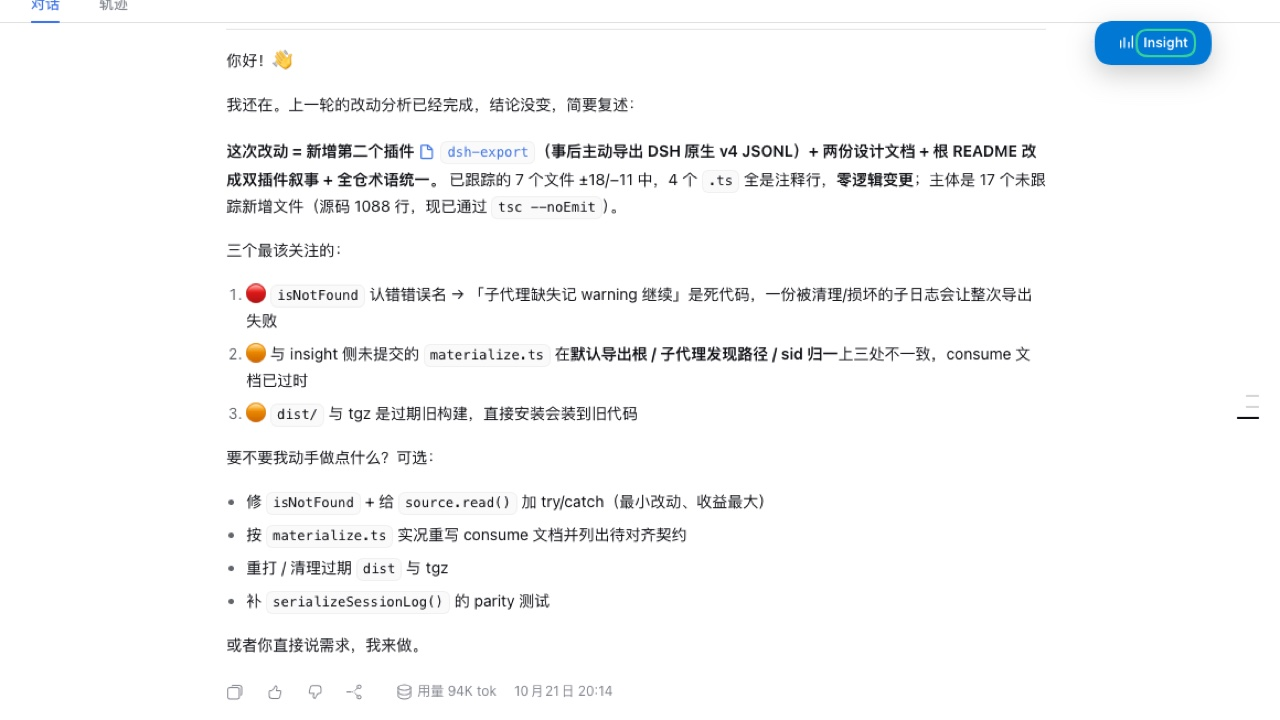
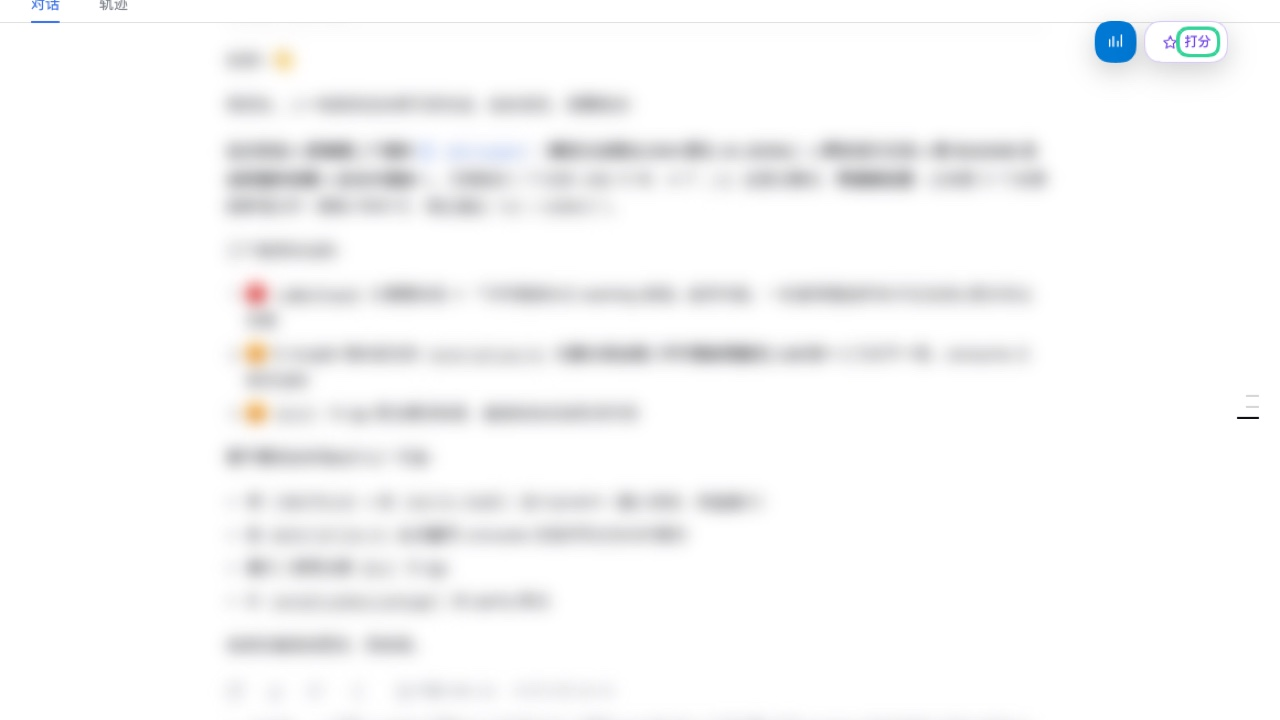
docs: simplify Insight page and add score screenshots

diff --git a/public/plugins/insight/index.html b/public/plugins/insight/index.html
@@ -10,11 +10,11 @@
 </head>
 <body>
   <header class="topbar">
-    <a class="brand" href="#top"><span class="brand-mark">IN</span><span>Insight</span></a>
+    <a class="brand" href="#top"><img class="brand-icon" src="assets/icon.svg" alt=""><span>Insight</span></a>
     <nav aria-label="文档导航">
       <a href="#install">安装</a>
-      <a href="#usage">使用</a>
       <a href="#health">环境检查</a>
+      <a href="#usage">使用</a>
       <a href="#limits">限制</a>
     </nav>
     <a class="npm-link" href="https://www.npmjs.com/package/@fuxi-ailabs/dsh-insight-bundle">npm ↗</a>
@@ -23,8 +23,7 @@
   <main id="top" class="layout">
     <article class="doc">
       <header class="hero">
-        <p class="eyebrow">DSH PLUGIN · v1.0.0</p>
-        <h1>Insight</h1>
+        <div class="hero-title"><img src="assets/icon.svg" alt="" width="58" height="58"><div><p class="eyebrow">DSH PLUGIN · v1.0.0</p><h1>Insight</h1></div></div>
         <p class="lede">把当前 DSH 会话导入 Insight，在 DSH 内读回评分卡，并从插件配置页检查 Provider Auth、Insight CLI 和服务状态。</p>
         <dl class="meta">
           <div><dt>DSH</dt><dd><code>0.2.1-rc.2</code></dd></div>
@@ -39,12 +38,17 @@
           <li><code>/insight</code>：导出当前会话（含子会话）、导入 Insight，并打开会话页。</li>
           <li><code>/score</code>：读取、重算或语义评审评分卡，并核对导入覆盖度。</li>
           <li><strong>会话页 Insight 按钮</strong>：一键刷新当前会话并打开 Insight 页面。</li>
+          <li><strong>打分 tag</strong>：导入后直接读取评分卡，查看总分和维度分数。</li>
           <li><strong>环境检查</strong>：在 Insight Bundle 配置页检查 Provider Auth 和 Insight 服务状态。</li>
         </ul>
       </section>
 
       <section id="install">
         <h2>安装</h2>
+        <div class="npm-callout">
+          <div><strong>npm 包</strong><code>@fuxi-ailabs/dsh-insight-bundle</code></div>
+          <a href="https://www.npmjs.com/package/@fuxi-ailabs/dsh-insight-bundle">查看 npm 页面 ↗</a>
+        </div>
         <h3>1. 准备运行环境</h3>
         <ul>
           <li>DSH <code>0.2.1-rc.2</code> 或同一兼容范围。</li>
@@ -61,32 +65,6 @@
         <p>安装完成后重启 DSH，让新的 Host 和 Client 模块重新加载。</p>
       </section>
 
-      <section id="usage">
-        <h2>使用</h2>
-        <h3>导入当前会话</h3>
-        <pre><code>/insight</code></pre>
-        <p>命令会导出当前会话、调用 Insight 导入接口，并打开对应会话页。常用选项：</p>
-        <pre><code>/insight --status
-/insight --force
-/insight --no-subagents
-/insight &lt;sid&gt;</code></pre>
-
-        <h3>读取评分卡</h3>
-        <pre><code>/score</code></pre>
-        <p>默认读取评分卡；没有缓存时计算确定性评分。常用选项：</p>
-        <pre><code>/score --recalc
-/score --semantic
-/score --status
-/score --no-cover</code></pre>
-        <p><code>--semantic</code> 会调用大模型并消耗 token，其他读卡和重算路径不会自动调用 LLM。</p>
-
-        <h3>使用会话页按钮</h3>
-        <figure class="shot">
-          <img src="assets/session-button.jpg" alt="DSH 会话页右上角的 Insight 按钮，已用绿色边框标出。" loading="lazy">
-          <figcaption>会话页右上角的 <strong>Insight</strong> 按钮用于刷新导入当前会话并打开 Insight 会话页。</figcaption>
-        </figure>
-      </section>
-
       <section id="health">
         <h2>环境检查</h2>
         <p>打开「插件」→ Insight Bundle，在配置区检查当前依赖。检查结果会区分正常、提醒和异常，并提供安装指引或 Insight 启动/关闭操作。</p>
@@ -101,6 +79,41 @@
             <tr><td>Insight</td><td>检查 CLI 是否可执行、服务是否在运行，并提供启动/关闭操作。</td></tr>
           </tbody>
         </table>
+      </section>
+
+      <section id="usage">
+        <h2>使用</h2>
+        <h3>导入当前会话</h3>
+        <p>在 DSH 会话页点击右上角的 <strong>Insight</strong> 按钮，或执行命令：</p>
+        <pre><code>/insight</code></pre>
+        <figure class="shot">
+          <img src="assets/session-button.jpg" alt="DSH 会话页右上角的 Insight 按钮和导入后出现的打分 tag，对话正文已模糊。" loading="lazy">
+          <figcaption>点击 <strong>Insight</strong> 导入当前会话；导入完成后出现 <strong>打分</strong> tag。用户会话正文已模糊处理。</figcaption>
+        </figure>
+        <p>命令会导出当前会话、调用 Insight 导入接口，并打开对应会话页。常用选项：</p>
+        <pre><code>/insight --status
+/insight --force
+/insight --no-subagents
+/insight &lt;sid&gt;</code></pre>
+        <p>点击 Insight 按钮并完成导入后，可以在 Insight 的 Score 页面查看完整评分卡。</p>
+        <figure class="shot">
+          <img src="assets/insight-score.jpg" alt="Insight 的 Score 页面，展示总分、否决项、六维能力图和维度明细。" loading="lazy">
+          <figcaption>Insight <strong>Score</strong> 页面：总分、否决项、覆盖度、六维能力图和维度明细。</figcaption>
+        </figure>
+
+        <h3>查看 DSH 内的评分</h3>
+        <p>导入后点击会话页右上角的 <strong>打分</strong> tag，可以在 DSH 内直接读取评分卡。</p>
+        <pre><code>/score</code></pre>
+        <figure class="shot">
+          <img src="assets/score-card.jpg" alt="DSH 会话页右侧的 Insight 评分卡，显示总分、覆盖度与六个维度分数，对话正文已模糊。" loading="lazy">
+          <figcaption>点击 <strong>打分</strong> 后显示评分卡；用户会话正文已模糊处理。</figcaption>
+        </figure>
+        <p>常用选项：</p>
+        <pre><code>/score --recalc
+/score --semantic
+/score --status
+/score --no-cover</code></pre>
+        <p><code>--semantic</code> 会调用大模型并消耗 token，其他读卡和重算路径不会自动调用 LLM。</p>
       </section>
 
       <section id="limits">
@@ -126,8 +139,8 @@
       <strong>本页目录</strong>
       <a href="#features">功能</a>
       <a href="#install">安装</a>
-      <a href="#usage">使用</a>
       <a href="#health">环境检查</a>
+      <a href="#usage">使用</a>
       <a href="#limits">使用条件与限制</a>
       <a href="#links">相关链接</a>
     </aside>

diff --git a/public/plugins/insight/styles.css b/public/plugins/insight/styles.css
@@ -36,12 +36,19 @@ a:hover { text-decoration: underline; }
 .topbar { position: sticky; top: 0; z-index: 10; display: flex; align-items: center; gap: 28px; min-height: 60px; padding: 0 max(24px, calc((100vw - 1160px) / 2)); border-bottom: 1px solid var(--line); background: var(--header); backdrop-filter: blur(12px); }
 .brand { display: inline-flex; align-items: center; gap: 10px; color: var(--text); font-weight: 650; }
 .brand:hover { text-decoration: none; }
-.brand-mark { display: grid; place-items: center; width: 30px; height: 30px; border-radius: 8px; background: linear-gradient(135deg, #0d89d8, #38bdf8); color: white; font: 700 11px var(--mono); letter-spacing: .04em; }
+.brand-icon { width: 30px; height: 30px; border-radius: 8px; }
 .topbar nav { display: flex; gap: 22px; margin-left: auto; }
 .topbar nav a { color: var(--text-2); font-size: 14px; }
 .npm-link { padding: 5px 12px; border: 1px solid var(--line); border-radius: 7px; font-size: 13px; color: var(--text-2); }
 .layout { display: grid; grid-template-columns: minmax(0, 820px) 190px; gap: 56px; max-width: 1160px; margin: 0 auto; padding: 44px 24px 76px; }
 .hero { padding-bottom: 28px; border-bottom: 1px solid var(--line); }
+.hero-title { display: flex; align-items: center; gap: 16px; }
+.hero-title img { flex: none; border-radius: 12px; }
+.hero-title .eyebrow { margin-bottom: 2px; }
+.npm-callout { display: flex; align-items: center; justify-content: space-between; gap: 16px; margin: 0 0 24px; padding: 13px 16px; border: 1px solid var(--line); border-radius: 8px; background: var(--surface); box-shadow: var(--shadow); }
+.npm-callout div { display: flex; flex-wrap: wrap; align-items: center; gap: 8px; }
+.npm-callout strong { color: var(--text); font-size: 13px; }
+.npm-callout a { flex: none; font-size: 13px; }
 .eyebrow { margin: 0 0 10px; color: var(--accent); font: 600 12px var(--mono); letter-spacing: .1em; }
 h1 { margin: 0 0 16px; font-size: 48px; line-height: 1.1; letter-spacing: -.03em; }
 .lede { max-width: 720px; margin: 0; color: var(--text-2); font-size: 18px; line-height: 1.7; }
@@ -79,6 +86,10 @@ th { background: var(--code); color: var(--text-2); font-weight: 600; }
   .lede { font-size: 16px; }
 }
 @media (max-width: 540px) {
+  .hero-title { align-items: flex-start; }
+  .hero-title img { width: 44px; height: 44px; }
+  .npm-callout { display: block; }
+  .npm-callout a { display: inline-block; margin-top: 8px; }
   .brand span:last-child { display: none; }
   h1 { font-size: 34px; }
   h2 { font-size: 23px; margin-top: 38px; }
